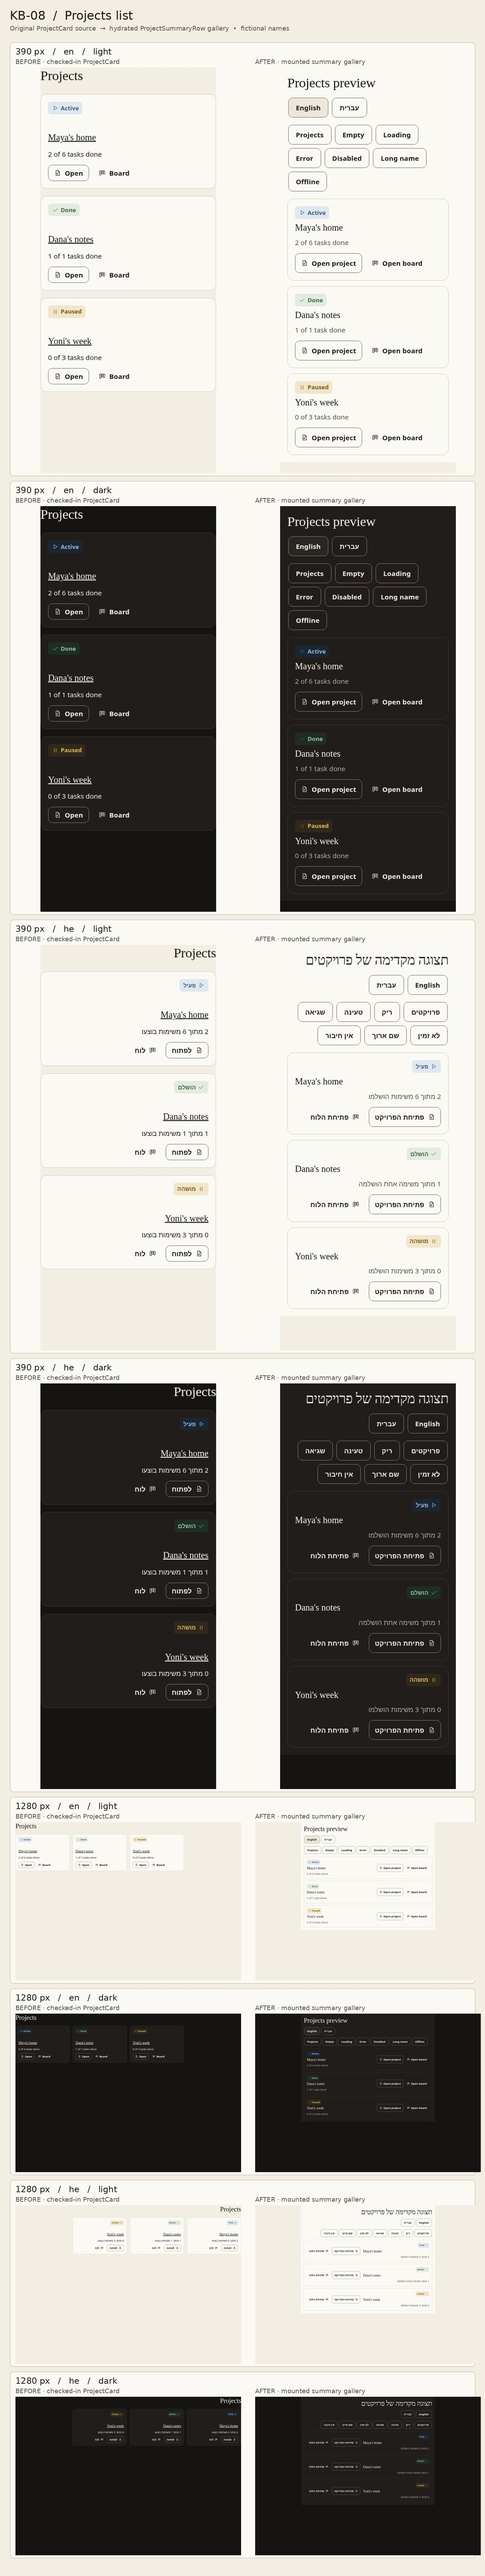
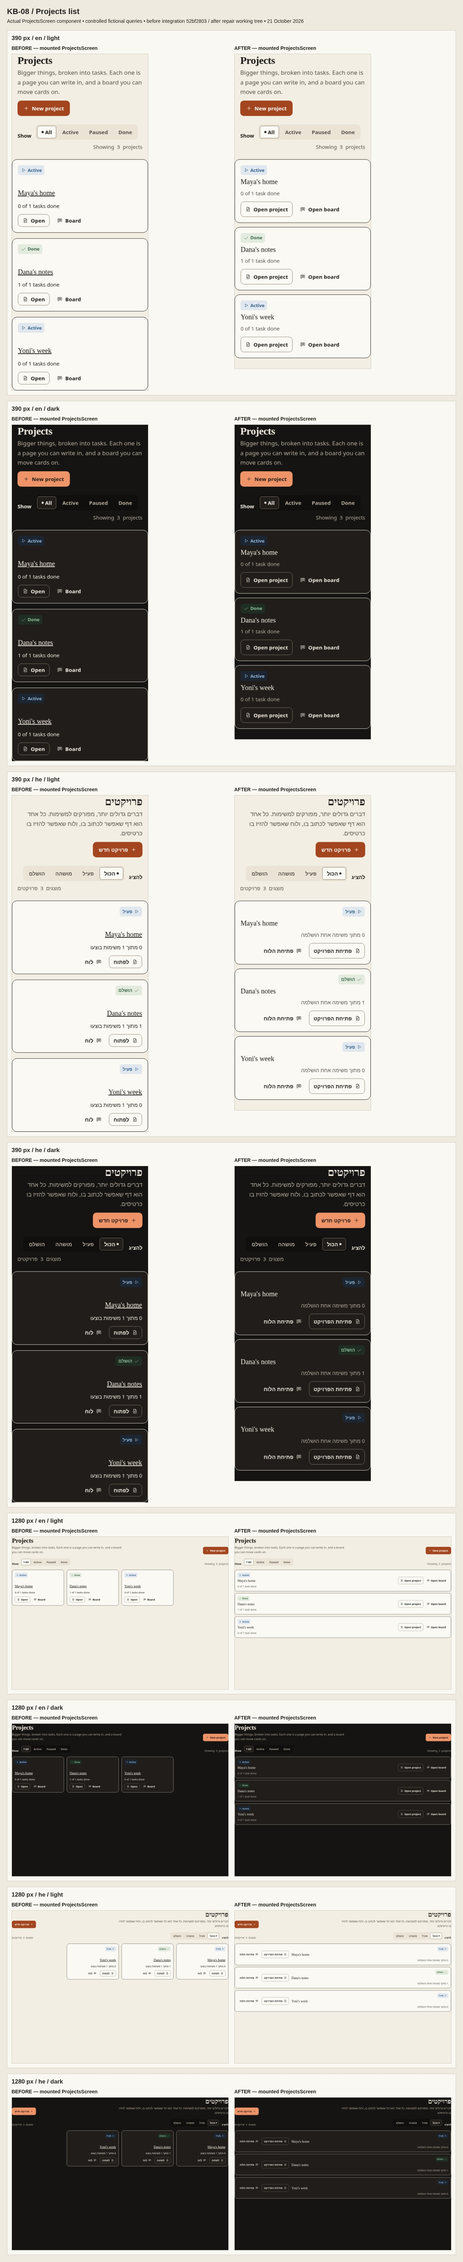
fix(projects): align mounted rows and gallery layout

Changed region(s): [[0.0, 0.0, 0.9939, 0.8742], [0.0, 0.9054, 0.9939, 0.9991], [0.7765, 0.0937, 0.8076, 0.1561]]

diff --git a/tests/unit/kb-08.test.tsx b/tests/unit/kb-08.test.tsx
@@ -24,7 +24,7 @@ if (process.env.KB08_ISOLATED !== "1") {
     "error and loading states render separately",
     "gallery renders the real exported row and owns one h1 and one main",
     "English and Hebrew dictionaries have exact key parity",
-    "hydrated gallery: keyboard navigation, callbacks, RTL, states and responsive targets",
+    "hydrated gallery and mounted projects: keyboard, callbacks, RTL and full-width rows",
   ];
   let output: string | undefined;
   for (const name of names) {
@@ -140,21 +140,37 @@ describe("KB-08 projects list", () => {
 let fixtureDirectory: string | undefined;
 afterAll(async () => { if (fixtureDirectory) await rm(fixtureDirectory, { recursive: true, force: true }); });
 
-test("hydrated gallery: keyboard navigation, callbacks, RTL, states and responsive targets", async () => {
+test("hydrated gallery and mounted projects: keyboard, callbacks, RTL and full-width rows", async () => {
   const scratch = join(process.cwd(), "work");
   await mkdir(scratch, { recursive: true });
   fixtureDirectory = await mkdtemp(join(scratch, "kb08-gallery-"));
   await symlink(join(process.cwd(), "apps/web/node_modules"), join(fixtureDirectory, "node_modules"));
   const entry = join(fixtureDirectory, "entry.tsx");
-  await writeFile(entry, `import React from ${JSON.stringify(join(process.cwd(), "apps/web/node_modules/react"))};\nimport { createRoot } from ${JSON.stringify(join(process.cwd(), "apps/web/node_modules/react-dom/client"))};\nimport { Kb08Gallery } from ${JSON.stringify(join(process.cwd(), "apps/web/components/projects/ProjectsScreen"))};\ncreateRoot(document.getElementById("root")!).render(<Kb08Gallery />);\n`);
-  const result = await Bun.build({ entrypoints: [entry], outdir: join(fixtureDirectory, "out"), target: "browser" });
+  await writeFile(entry, `import React from ${JSON.stringify(join(process.cwd(), "apps/web/node_modules/react"))};\nimport { createRoot } from ${JSON.stringify(join(process.cwd(), "apps/web/node_modules/react-dom/client"))};\nimport { Kb08Gallery, ProjectsScreen } from ${JSON.stringify(join(process.cwd(), "apps/web/components/projects/ProjectsScreen"))};\nimport { LocaleProvider } from ${JSON.stringify(join(process.cwd(), "apps/web/components/providers/LocaleProvider"))};\nimport { TpIconSprite } from ${JSON.stringify(join(process.cwd(), "apps/web/components/tempo/TpIcon"))};\nconst mounted = new URLSearchParams(location.search).has("mounted");\ncreateRoot(document.getElementById("root")!).render(mounted ? <LocaleProvider><main><TpIconSprite /><ProjectsScreen /></main></LocaleProvider> : <Kb08Gallery />);\n`);
+  const result = await Bun.build({ entrypoints: [entry], outdir: join(fixtureDirectory, "out"), target: "browser", plugins: [{
+    name: "kb08-controlled-project-queries",
+    setup(build) {
+      build.onResolve({ filter: /^convex\/react$/ }, () => ({ path: "convex-react", namespace: "kb08-fixture" }));
+      build.onResolve({ filter: /^next\/navigation$/ }, () => ({ path: "navigation", namespace: "kb08-fixture" }));
+      build.onLoad({ filter: /.*/, namespace: "kb08-fixture" }, ({ path }) => ({ loader: "js", contents: path === "navigation"
+        ? 'export const useRouter = () => ({ push: (href) => { window.kb08Navigation = href; } });'
+        : `import { getFunctionName } from ${JSON.stringify(join(process.cwd(), "node_modules/convex/server"))};
+export const useConvexAuth = () => ({ isAuthenticated: true, isLoading: false });
+export const useQuery = (reference, args) => args === "skip" ? undefined : getFunctionName(reference) === "users:getProfile" ? { _id: "fictional-user", greetingName: "Maya" } : [
+  { _id: "maya-task", projectId: "maya-home", projectName: "Maya's home", status: "todo", updatedAt: 3 },
+  { _id: "dana-task", projectId: "dana-notes", projectName: "Dana's notes", status: "done", updatedAt: 2 },
+  { _id: "yoni-task", projectId: "yoni-week", projectName: "Yoni's week", status: "todo", updatedAt: 1 }
+];
+export const useMutation = () => () => { throw new Error("Unexpected mutation in display fixture"); };` }));
+    },
+  }] });
   if (!result.success) throw new Error(`Gallery bundle failed: ${result.logs.map(String).join("\n")}`);
   const bundleJs = result.outputs.find((output) => output.path.endsWith(".js"));
   const bundleCss = result.outputs.find((output) => output.path.endsWith(".css"));
   if (!bundleJs || !bundleCss) throw new Error("Gallery bundle must include JS and CSS");
   const styles = await Promise.all([
     "docs/design/v3/tokens.css",
-    "docs/design/v3/tempo.css",
+    "apps/web/app/tempo.css",
     "apps/web/app/v3/goals.css",
   ].map((path) => Bun.file(path).text()));
   const css = `${styles.join("\n").replace(/@import url\([^;]+;/g, "")}\n${await bundleCss.text()}`;
@@ -175,6 +191,7 @@ test("hydrated gallery: keyboard navigation, callbacks, RTL, states and responsi
       expect(await page.locator("#i-page").count()).toBe(1);
       expect(await page.locator("h1").count()).toBe(1);
       expect(await page.locator("main").count()).toBe(1);
+      expect(await page.locator(".tp-cards.kb08-list").count()).toBe(1);
       expect(await page.locator("article a a, article button a, article a button").count()).toBe(0);
       await page.locator("article a").first().focus();
       expect(await page.evaluate(() => document.activeElement?.getAttribute("aria-label"))).toContain("Open project");
@@ -199,6 +216,12 @@ test("hydrated gallery: keyboard navigation, callbacks, RTL, states and responsi
         await page.getByRole("button", { name: lang === "en" ? "English" : "עברית" }).click();
         expect(await page.locator("main").getAttribute("dir")).toBe(lang === "he" ? "rtl" : "ltr");
         expect(await page.locator(".kb08-row__count").first().evaluate((node) => getComputedStyle(node).direction)).toBe(lang === "he" ? "rtl" : "ltr");
+        for (const kind of ["empty", "error"] as const) {
+          await page.getByRole("button", { name: translateKb08(lang, `gallery.${kind}`), exact: true }).click();
+          await page.getByRole("button", { name: translateKb08(lang, `${kind}.action`), exact: true }).click();
+          expect(await page.locator("output").last().textContent()).toBe(translateKb08(lang, "gallery.feedback", { action: translateKb08(lang, `gallery.${kind}`) }));
+        }
+        await page.getByRole("button", { name: translateKb08(lang, "gallery.default"), exact: true }).click();
         for (const theme of ["light", "dark"] as const) {
           await page.evaluate((next) => document.documentElement.dataset.theme = next, theme);
           expect(await page.evaluate(() => document.documentElement.scrollWidth <= document.documentElement.clientWidth)).toBe(true);
@@ -210,6 +233,29 @@ test("hydrated gallery: keyboard navigation, callbacks, RTL, states and responsi
         }
       }
       await page.close();
+
+      // Exercise the actual /projects component, including its production CardGrid classes.
+      // Only auth/query values and router writes are controlled; grouping and layout are real.
+      const mounted = await browser.newPage({ viewport: { width, height: 900 }, reducedMotion: "reduce" });
+      for (const lang of ["en", "he"] as const) {
+        await mounted.goto(`${server.url.href}?mounted=1&lang=${lang}`);
+        await mounted.locator('[data-component="ProjectSummaryRow"]').first().waitFor();
+        expect(await mounted.locator("h1").count()).toBe(1);
+        expect(await mounted.locator("main").count()).toBe(1);
+        expect(await mounted.locator(".tp-cards.kb08-list").count()).toBe(1);
+        const layout = await mounted.locator(".kb08-list").evaluate((list) => ({
+          width: list.getBoundingClientRect().width,
+          rows: [...list.children].map((row) => ({ width: row.getBoundingClientRect().width, top: row.getBoundingClientRect().top })),
+        }));
+        expect(layout.rows).toHaveLength(3);
+        expect(layout.rows.every((row) => Math.abs(row.width - layout.width) < 1)).toBe(true);
+        expect(layout.rows[1]!.top).toBeGreaterThan(layout.rows[0]!.top);
+        expect(layout.rows[2]!.top).toBeGreaterThan(layout.rows[1]!.top);
+        expect(await mounted.locator("article a").first().getAttribute("href")).toBe("/projects/maya-home");
+        expect(await mounted.locator("article a").nth(1).getAttribute("href")).toBe("/projects/maya-home/kanban");
+        expect(await mounted.evaluate(() => document.documentElement.scrollWidth <= document.documentElement.clientWidth)).toBe(true);
+      }
+      await mounted.close();
     }
   } finally {
     await browser.close();

diff --git a/apps/web/components/projects/ProjectsScreen.tsx b/apps/web/components/projects/ProjectsScreen.tsx
@@ -39,6 +39,8 @@ const FILTER_LABEL = {
   done: "pj.status.done",
 } as const;
 
+const PROJECT_LIST_CLASS_NAME = "tp-cards pj-cards kb08-list";
+
 /**
  * Projects (docs/design/v3/screens/web/projects.html). There is no projects table: a project is
  * the tasks that share a projectId, so each card shows its name, a status worked out from those
@@ -148,7 +150,7 @@ function ProjectsContent() {
           </div>
 
           {shown.length > 0 ? (
-            <div className="tp-cards pj-cards kb08-list" data-component="CardGrid">
+            <div className={PROJECT_LIST_CLASS_NAME} data-component="CardGrid">
               {shown.map((project) => (
                 <ProjectCard key={project.id} project={project} lang={lang} />
               ))}
@@ -265,9 +267,9 @@ export function Kb08Gallery() {
       {states.map((next) => <button key={next} type="button" className="tp-btn tp-btn--secondary" aria-pressed={state === next} onClick={() => { setState(next); setFeedback(""); }}>{translateKb08(lang, `gallery.${next}`)}</button>)}
     </fieldset>
     {state === "offline" ? <ProjectListState kind="offline" lang={lang} /> : null}
-    {state === "empty" || state === "loading" || state === "error" ? <ProjectListState kind={state} lang={lang} onAction={() => setFeedback(state)} /> : null}
+    {state === "empty" || state === "loading" || state === "error" ? <ProjectListState kind={state} lang={lang} onAction={() => setFeedback(translateKb08(lang, `gallery.${state}`))} /> : null}
     {state === "disabled" ? <ProjectListState kind="disabled" lang={lang} /> : null}
-    {state === "default" || state === "disabled" || state === "overflow" || state === "offline" ? <div className="kb08-list">{samples.map((project) => <ProjectSummaryRow key={project.id} project={project} lang={lang} disabled={state === "disabled"} onNavigate={(target) => setFeedback(`${project.id}: ${target}`)} />)}</div> : null}
+    {state === "default" || state === "disabled" || state === "overflow" || state === "offline" ? <div className={PROJECT_LIST_CLASS_NAME}>{samples.map((project) => <ProjectSummaryRow key={project.id} project={project} lang={lang} disabled={state === "disabled"} onNavigate={(target) => setFeedback(`${project.id}: ${target}`)} />)}</div> : null}
     {feedback ? <output aria-live="polite">{translateKb08(lang, "gallery.feedback", { action: feedback })}</output> : null}
   </main>;
 }

diff --git a/apps/web/app/v3/kb-08.css b/apps/web/app/v3/kb-08.css
@@ -1,5 +1,5 @@
 /* KB-08: projects summary rows only. Values come from the v3 token source. */
-.kb08-list { display: grid; gap: var(--tp-space-3); min-width: 0; }
+.kb08-list { display: grid; grid-template-columns: minmax(0, 1fr); gap: var(--tp-space-3); min-width: 0; }
 .kb08-row { display: grid; grid-template-columns: minmax(0, 1fr) auto; gap: var(--tp-space-3) var(--tp-space-4); align-items: center; min-width: 0; }
 .kb08-row__summary { display: grid; gap: var(--tp-space-2); min-width: 0; }
 .kb08-row__summary .tp-status { justify-self: start; }

diff --git a/docs/polish/evidence/kb-08-projects-list-makes-names-and-counts-easy-to-scan.md b/docs/polish/evidence/kb-08-projects-list-makes-names-and-counts-easy-to-scan.md
@@ -2,11 +2,13 @@
 
 The existing `/projects` screen groups tasks by `projectId`. This change leaves its query, filter, creation callback, and route destinations intact. Each project now mounts a `ProjectSummaryRow` with a wrapping name, a readable completion count, and separate labelled project and board links. `ProjectListState` supplies the mounted loading, empty, filtered, offline, and error views. A standalone `Kb08Gallery` renders the same exports with fictional Maya, Dana, and Yoni data.
 
-The [contact sheet](./kb-08-projects-list-makes-names-and-counts-easy-to-scan.jpg) pairs source-derived before views with hydrated after views at 390 and 1280 px in English and Hebrew, light and dark. The before browser fixture uses the original checked-in `ProjectCard` source saved before editing, with only an enclosing gallery, locale provider, icon sprite, and fictional data. It is a controlled component comparison, not a claim that a signed-in production route was exercised. After views use the actual exported `Kb08Gallery` from source commit `1c0507c`, its real icon sprite, and the ticket CSS with v3 tokens and styles. All eight after images were recaptured on 19 October after the sprite mount was added.
+The [contact sheet](./kb-08-projects-list-makes-names-and-counts-easy-to-scan.jpg) was recaptured on 21 October at 390 and 1280 px in English and Hebrew, light and dark. Both sides hydrate the actual `ProjectsScreen` with its real locale provider, icon sprite, grouping, and list wrapper. The before module comes from integration commit `52bf2803`; the after module is the repair source committed with this evidence, on parent `ca120ce`. Only auth/query values and router writes are controlled, using fictional Maya, Dana, and Yoni tasks. This comparison does not claim live account or backend verification.
 
 ## Browser findings
 
-- Hydrated gallery rendered one `h1` and one `main` at both widths.
+- Hydrated gallery and actual mounted screen rendered one `h1` and one `main` at both widths.
+- The mounted regression first failed at 1280 px: the production `tp-cards` wrapper retained multiple columns while the gallery used one. The repair sets a single explicit column and shares the list classes between screen and gallery. The regression checks all three mounted rows fill the list width and stack vertically in both locales at 390 and 1280 px.
+- Empty and error gallery actions return localized feedback in English and Hebrew; browser assertions exercise both callbacks.
 - Project and board links are separate keyboard stops. Enter activates the project callback; clicking the board link activates the board callback. Focus remains visible, and Shift+Tab returns to the prior link.
 - Empty, loading, error, disabled, overflow, and offline controls changed the mounted views. Disabled rows contain no navigable anchor.
 - Hebrew sets `dir=rtl` on the gallery; project names retain `dir=auto`; numeric fragments use LTR isolates. The count sentence follows the selected language direction.
@@ -14,6 +16,52 @@ The [contact sheet](./kb-08-projects-list-makes-names-and-counts-easy-to-scan.jp
 
 ## Verification
 
-The complete command table and failure tails are in the draft PR body. The focused `tests/unit/kb-08.test.tsx` includes 13 tests: empty projects, one project, count labels including 0/1, long name, no nested controls, disabled navigation, Hebrew count, offline state, filtered state, error/loading state, gallery landmark/render, en/he key parity, and a hydrated browser test for keyboard and responsive behavior.
+The complete command table and failure tails are in the draft PR body. The focused `tests/unit/kb-08.test.tsx` includes 13 tests: empty projects, one project, count labels including 0/1, long name, no nested controls, disabled navigation, Hebrew count, offline state, filtered state, error/loading state, gallery landmark/render, en/he key parity, and a hydrated browser test for keyboard, responsive behavior, localized callbacks, and actual mounted list geometry.
 
 Device screen-reader results remain **UNKNOWN** until tested on a device. This sandbox fixture does not verify live account data or backend behavior.
+
+## Review follow-up, 21 October
+
+CodeRabbit's gallery feedback finding is fixed: empty and error callbacks use the selected language's gallery label, and the hydrated test checks both languages. Its standard-test browser provisioning concern is covered by the existing executable lookup (Playwright cache, `/usr/bin/chromium`, then `/usr/bin/google-chrome`) and the hosted Ubuntu image's installed Chrome. The [exact-parent Test job](https://github.com/Levidavidspublic/tempo-rhythm/actions/runs/39315747770/job/118276641678) passed with the browser test enabled. Detailed hosted logs remain **UNKNOWN** because downloading them returned HTTP 403. No browser test was skipped or weakened, and no workflow was changed.
+
+Repair validation uses Bun `1.3.9`, local workspace package links, and shared third-party dependencies. Heavy browser/unit/E2E/build work uses a shared lock. Standard local Playwright uses the preinstalled Chromium through `PLAYWRIGHT_BROWSERS_PATH=/workspace/work/kb/browsers`; it never targets a preview URL.
+
+## Test results (cloud agent sandbox), repair pass
+
+Bun: `1.3.9`. The following results cover the repair source committed with this evidence; earlier broad results in the PR predate the repair.
+
+| Command | Exit | Result |
+| --- | --- | --- |
+| `bun install --frozen-lockfile` (60-second bounded retry) | 124 | UNKNOWN: resolver stalled; byte-identical lock and all eight manifests verified before reusing dependencies |
+| `bun run lint` | 0 | 5/5 tasks; existing warnings |
+| `bun run typecheck` | 0 | 5/5 tasks |
+| `bun test tests/unit/kb-08.test.tsx` | 0 | 13 pass, 0 fail, including actual mounted geometry and localized gallery callbacks |
+| `bun run test` | 1 | 3313 pass, 3 todo, 1 fail across 202 files; unchanged account-lifecycle test exceeded its existing 5000 ms timeout |
+| four scan/notices commands | 0 | 4/4 OK; 66 documented dependencies |
+| `CI=1 bunx playwright test --reporter=line` | — | UNKNOWN for this repair pass; coordinator continues the serialized gates |
+| `NEXT_PUBLIC_CONVEX_URL=https://example.convex.cloud bun run build` | — | UNKNOWN for this repair pass; coordinator continues the serialized gates |
+
+The mounted-layout regression failed against the old CSS before the repair, then passed after the explicit single-column template. The full unit run retained the enabled KB-08 browser test and its 13 passing cases. Its sole failure was outside the ticket's changed files; no timeout or test was weakened. Final 20 lines:
+
+```text
+(pass) json-render 0.21.0 behaviour that makes validateBlockSpec necessary > it does reject an element type outside the catalog [0.60ms]
+(pass) module boundary > imports only the pinned json-render entry points, the shared codec, zod and the catalog [0.45ms]
+(pass) module boundary > does not load React, a renderer, state adapters, storage or the network [0.76ms]
+
+3 tests todo:
+(todo) Agent component under Bun: unresolved coverage > scheduler-driven deletion (deleteAllForThreadIdAsync) under Bun fake timers
+(todo) Agent component under Bun: unresolved coverage > streaming deltas, abort and timeout cleanup (streams.*)
+(todo) Agent component under Bun: unresolved coverage > vector and text search over saved messages
+
+
+1 tests failed:
+(fail) account lifecycle coverage is derived from the schema > every owned fixture is deleted, isolated from a second user, and idempotent [8494.81ms]
+  ^ this test timed out after 5000ms.
+
+ 3313 pass
+ 3 todo
+ 1 fail
+ 81031 expect() calls
+Ran 3317 tests across 202 files. [161.37s]
+error: script "test" exited with code 1
+```
